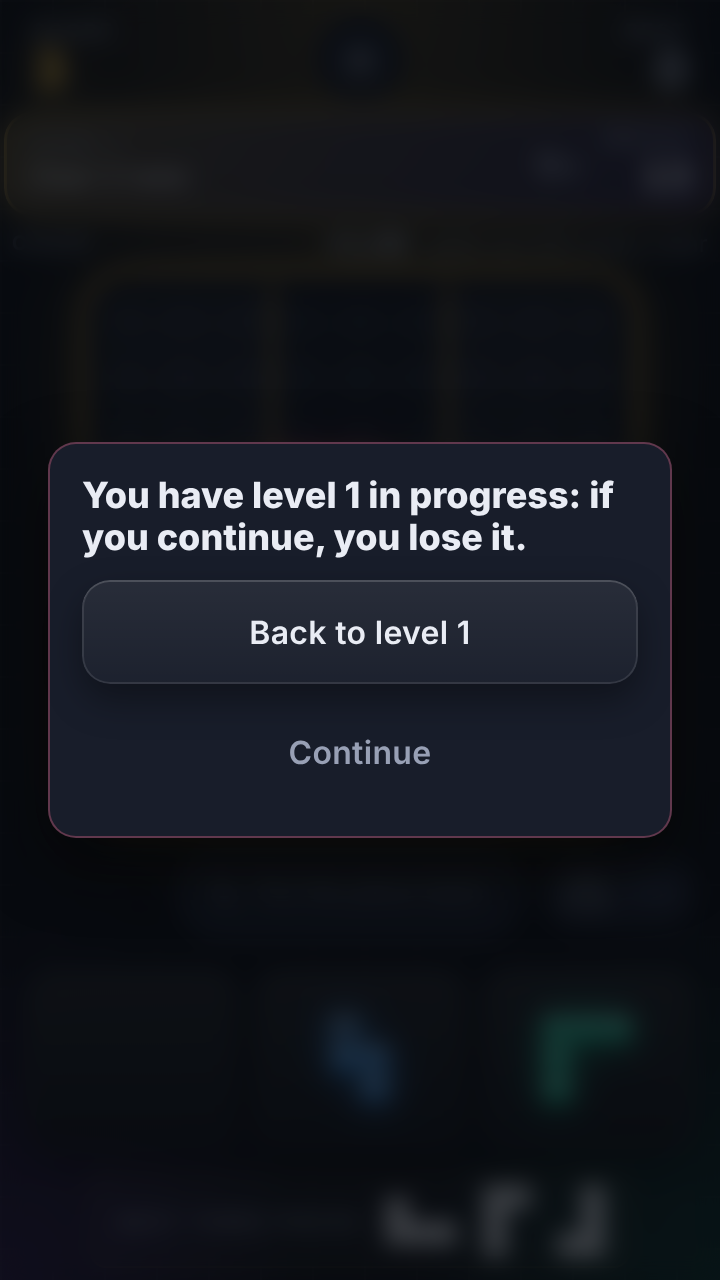
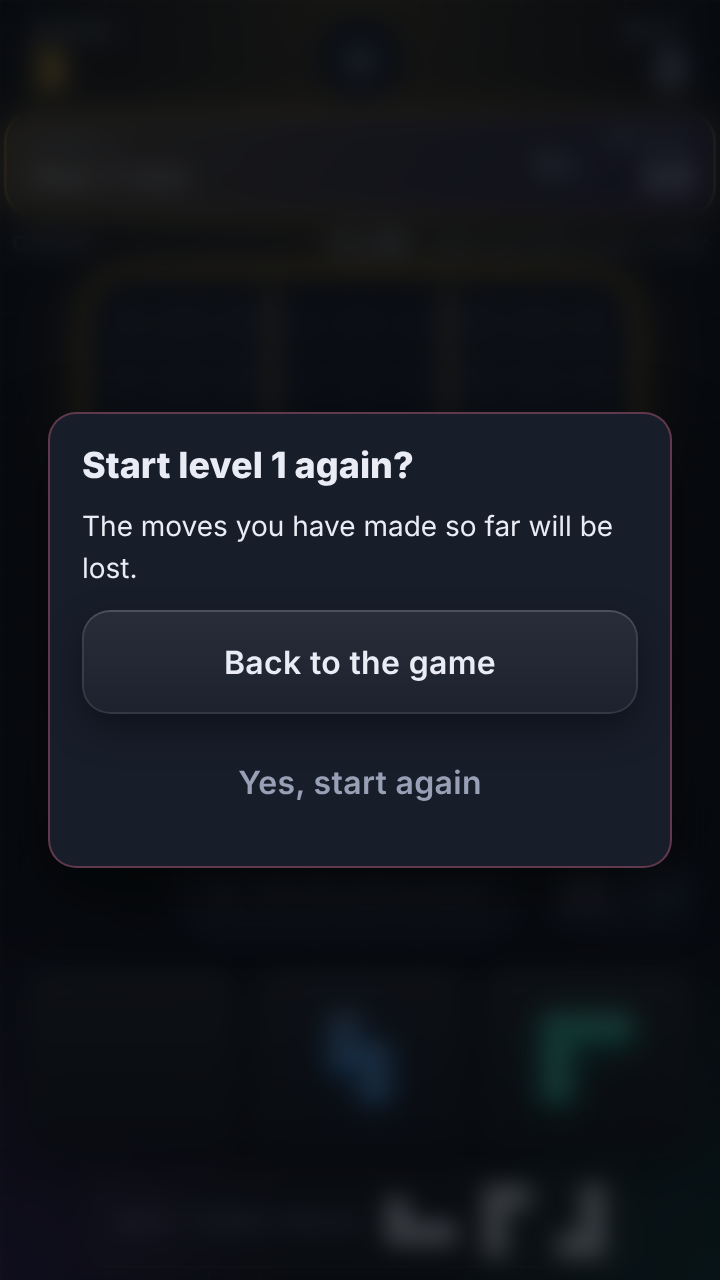
PO-008: testi della conferma piu' chiari, ogni pulsante dice che cosa fa
Il proprietario ha trovato poco chiara la prima versione («se continui la
perdi» con un pulsante «Continua»: continuare che cosa?). Adesso il titolo
dice che cosa e' a meta', una riga dice che cosa si perde, e i pulsanti
nominano l'azione: «Riprendi il livello 2» / «Gioca il livello 1»;
«Torna alla partita» / «Si', ricomincia da capo»; «Riprendi la sfida del
16 ottobre» / «Apri la sfida di oggi». Schermate rifatte.

Claude-Session: https://claude.ai/code/session_01GFoFz1oYDGgk1JF4CCyFX7

diff --git a/src/ui/App.jsx b/src/ui/App.jsx
@@ -135,9 +135,9 @@ export function App() {
 
   const quadri = useQuadro();
   /**
-   * La domanda prima di perdere una partita a meta' (PO-008): `{ titolo, etichettaTorna,
-   * onTorna, onContinua }`, oppure null. Una sola per tutta l'app, cosi' il tasto
-   * Indietro sa che c'e' e la chiude per prima, come fa con il menu.
+   * La domanda prima di perdere una partita a meta' (PO-008): `{ titolo, testo,
+   * etichettaTorna, etichettaContinua, onTorna, onContinua }`, oppure null. Una sola per
+   * tutta l'app, cosi' il tasto Indietro sa che c'e' e la chiude per prima, come il menu.
    */
   const [conferma, setConferma] = useState(null);
   const chiudiConferma = useCallback(() => setConferma(null), []);
@@ -185,9 +185,14 @@ export function App() {
     const lasciata = sfidaAMeta();
     if (CONFERMA_ALTRA_SFIDA && !confermato && lasciata && lasciata !== giorno) {
       const quando = dataDistesa(lasciata);
+      const nuova = giorno === giornoDiOggi()
+        ? t('conferma.sfidaOggi')
+        : t('conferma.sfidaDel').replace('{giorno}', dataDistesa(giorno));
       setConferma({
-        titolo: t('conferma.sfida').replace('{giorno}', quando),
-        etichettaTorna: t('conferma.tornaSfida').replace('{giorno}', quando),
+        titolo: t('conferma.sfidaTitolo').replace('{giorno}', quando),
+        testo: t('conferma.sfidaTesto').replace('{nuova}', nuova).replace('{giorno}', quando),
+        etichettaTorna: t('conferma.riprendiSfida').replace('{giorno}', quando),
+        etichettaContinua: t('conferma.apri').replace('{nuova}', nuova),
         onTorna: () => {
           setConferma(null);
           if (!riprendi('sfida')) return;
@@ -346,9 +351,12 @@ export function App() {
   const avviaQuadro = useCallback(() => {
     const lasciato = quadri.livelloAMeta();
     if (CONFERMA_ALTRO_LIVELLO && lasciato !== null && lasciato !== quadri.quadro?.numero) {
+      const altro = quadri.quadro?.numero;
       setConferma({
-        titolo: t('conferma.livello').replace('{n}', lasciato),
-        etichettaTorna: t('conferma.tornaLivello').replace('{n}', lasciato),
+        titolo: t('conferma.livelloTitolo').replace('{n}', lasciato),
+        testo: t('conferma.livelloTesto').replace('{altro}', altro).replace('{n}', lasciato),
+        etichettaTorna: t('conferma.riprendiLivello').replace('{n}', lasciato),
+        etichettaContinua: t('conferma.giocaLivello').replace('{altro}', altro),
         onTorna: () => { setConferma(null); quadri.riprendiSalvato(); },
         onContinua: () => { setConferma(null); quadri.avvia(); },
       });
@@ -366,8 +374,10 @@ export function App() {
     if (CONFERMA_RIPROVA && !quadri.esito && quadri.partita?.stats.moves > 0) {
       const n = quadri.quadro.numero;
       setConferma({
-        titolo: t('conferma.livello').replace('{n}', n),
-        etichettaTorna: t('conferma.tornaLivello').replace('{n}', n),
+        titolo: t('conferma.riprovaTitolo').replace('{n}', n),
+        testo: t('conferma.riprovaTesto'),
+        etichettaTorna: t('comune.tornaAllaPartita'),
+        etichettaContinua: t('conferma.riprovaSi'),
         onTorna: () => setConferma(null),
         onContinua: () => { setConferma(null); quadri.riprova(); },
       });
@@ -452,11 +462,12 @@ export function App() {
   const finestraConferma = conferma ? (
     <ConfermaPerdita
       titolo={conferma.titolo}
+      testo={conferma.testo}
       etichettaTorna={conferma.etichettaTorna}
+      etichettaContinua={conferma.etichettaContinua}
       onTorna={conferma.onTorna}
       onContinua={conferma.onContinua}
       onAnnulla={chiudiConferma}
-      t={t}
     />
   ) : null;
 

diff --git a/src/ui/ConfermaDoppia.jsx b/src/ui/ConfermaDoppia.jsx
@@ -80,11 +80,17 @@ export function VoceCancellata({ etichetta, valore }) {
  * riprova sarebbero un pedaggio. Lo stile e il velo sono gli stessi, cosi' il giocatore
  * riconosce la forma: una finestra che chiede, sopra tutto il resto.
  *
- * LA STRADA SICURA E' QUELLA FACILE: «Torna a...» e' il pulsante pieno, in alto, e ha il
- * fuoco appena la finestra si apre; «Continua» e' trasparente. Escape, il tocco fuori e
+ * OGNI PULSANTE DICE CHE COSA FA («Riprendi il livello 2», «Gioca il livello 1»). La
+ * prima versione aveva «Continua», e il proprietario l'ha trovata poco chiara: continuare
+ * che cosa? Il titolo dice che cosa c'e' a meta', il testo che cosa si perde.
+ *
+ * LA STRADA SICURA E' QUELLA FACILE: quella che non perde niente e' il pulsante pieno, in
+ * alto, e ha il fuoco appena la finestra si apre; l'altra e' trasparente. Escape, il tocco fuori e
  * il tasto Indietro di Android (gestito da App) chiudono la domanda senza perdere niente.
  */
-export function ConfermaPerdita({ titolo, etichettaTorna, onTorna, onContinua, onAnnulla, t }) {
+export function ConfermaPerdita({
+  titolo, testo, etichettaTorna, etichettaContinua, onTorna, onContinua, onAnnulla,
+}) {
   const sicuro = useRef(null);
   useEffect(() => { sicuro.current?.focus(); }, []);
   useEffect(() => {
@@ -103,12 +109,13 @@ export function ConfermaPerdita({ titolo, etichettaTorna, onTorna, onContinua, o
         onClick={(e) => e.stopPropagation()}
       >
         <p className="pl-azzera__titolo">{titolo}</p>
+        <p className="pl-azzera__testo">{testo}</p>
         <div className="pl-azzera__scelte">
           <button ref={sicuro} type="button" className="pl-btn pl-btn--largo" onClick={onTorna}>
             {etichettaTorna}
           </button>
           <button type="button" className="pl-btn pl-btn--fantasma pl-btn--largo" onClick={onContinua}>
-            {t('conferma.continua')}
+            {etichettaContinua}
           </button>
         </div>
       </div>

diff --git a/src/i18n/it.js b/src/i18n/it.js
@@ -607,13 +607,22 @@ export default {
     apple: 'Tocca il pulsante Condividi in basso, poi «Aggiungi alla schermata Home». Il gioco si apre come un\'app, a schermo intero e anche senza connessione.',
   },
   // PO-008: la domanda prima di perdere una partita lasciata a meta' (collaudo 1.21.9).
-  // «Continua» fa quello che si era chiesto; «Torna...» riporta alla partita lasciata.
+  // Ogni pulsante dice CHE COSA fa: la prima versione diceva «se continui la perdi» con un
+  // pulsante «Continua», e il proprietario l'ha trovata poco chiara (17 ottobre 2026).
   conferma: {
-    livello: 'Hai il livello {n} a metà: se continui lo perdi.',
-    tornaLivello: 'Torna al livello {n}',
-    sfida: 'Hai la sfida del {giorno} a metà: se continui la perdi.',
-    tornaSfida: 'Torna alla sfida del {giorno}',
-    continua: 'Continua',
+    livelloTitolo: 'Il livello {n} è a metà.',
+    livelloTesto: 'Se giochi il livello {altro}, perdi le mosse fatte nel livello {n}.',
+    riprendiLivello: 'Riprendi il livello {n}',
+    giocaLivello: 'Gioca il livello {altro}',
+    riprovaTitolo: 'Vuoi ricominciare il livello {n}?',
+    riprovaTesto: 'Le mosse che hai fatto finora si perdono.',
+    riprovaSi: 'Sì, ricomincia da capo',
+    sfidaTitolo: 'La sfida del {giorno} è a metà.',
+    sfidaTesto: 'Se apri {nuova}, perdi le mosse fatte nella sfida del {giorno}.',
+    riprendiSfida: 'Riprendi la sfida del {giorno}',
+    apri: 'Apri {nuova}',
+    sfidaOggi: 'la sfida di oggi',
+    sfidaDel: 'la sfida del {giorno}',
   },
   comune: {
     /* «Chiudi» non diceva CHE COSA chiude: il menu o il gioco? Segnalato da un tester.

diff --git a/src/i18n/en.js b/src/i18n/en.js
@@ -531,11 +531,19 @@ export default {
     apple: 'Tap the Share button at the bottom, then "Add to Home Screen". The game opens like an app, full screen and even offline.',
   },
   conferma: {
-    livello: 'You have level {n} in progress: if you continue, you lose it.',
-    tornaLivello: 'Back to level {n}',
-    sfida: 'You have the {giorno} challenge in progress: if you continue, you lose it.',
-    tornaSfida: 'Back to the {giorno} challenge',
-    continua: 'Continue',
+    livelloTitolo: 'Level {n} is in progress.',
+    livelloTesto: 'If you play level {altro}, you lose the moves you made in level {n}.',
+    riprendiLivello: 'Resume level {n}',
+    giocaLivello: 'Play level {altro}',
+    riprovaTitolo: 'Start level {n} again?',
+    riprovaTesto: 'The moves you have made so far will be lost.',
+    riprovaSi: 'Yes, start again',
+    sfidaTitolo: 'The {giorno} challenge is in progress.',
+    sfidaTesto: 'If you open {nuova}, you lose the moves you made in the {giorno} challenge.',
+    riprendiSfida: 'Resume the {giorno} challenge',
+    apri: 'Open {nuova}',
+    sfidaOggi: "today's challenge",
+    sfidaDel: 'the {giorno} challenge',
   },
   comune: {
     tornaAllaPartita: 'Back to the game',
